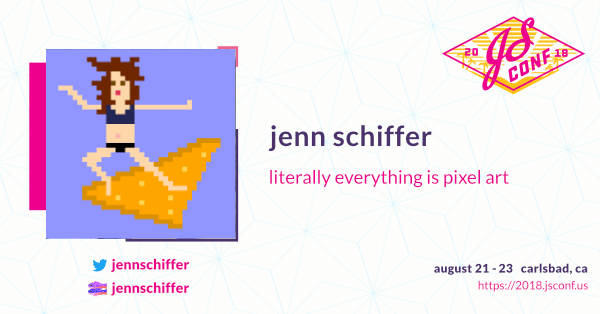
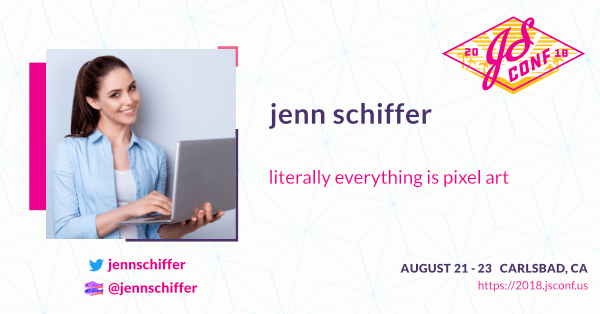
Update jenn's headshot, card, and nameplate

diff --git a/src/components/SpeakerPage/index.js b/src/components/SpeakerPage/index.js
@@ -12,7 +12,7 @@ const SpeakerPage = ({ description, html, title, url, speakers, visible }) => {
   }
   const names = toSentence(speakers.map((speaker) => speaker.name))
   const metaTitle = `${names}: ${title}`
-  const card = absoluteUrl(`/img/speakers/${slugify(names)}-card.png?5`)
+  const card = absoluteUrl(`/img/speakers/${slugify(names)}-card.png?6`)
   const img = absoluteUrl(`/img/speakers/${slugify(names)}-plate.png`)
   return (
     <DefaultLayout description={title} title={names}>

diff --git a/content/speakers/jenn-schiffer.md b/content/speakers/jenn-schiffer.md
@@ -2,7 +2,7 @@
 description: by recognizing pixels as objects with properties, like color and position, and capitalizing on the trend of graphics editors implementing javascript-powered plugin extensions, jenn will reveal how javascript is as much a medium for art then ever before
 title: literally everything is pixel art
 speakers:
-- avatar: /img/speakers/jenn-schiffer.png
+- avatar: /img/speakers/jenn-schiffer.jpg
   github:
   glitch: "@jennschiffer"
   name: Jenn Schiffer
